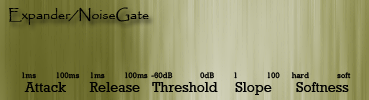
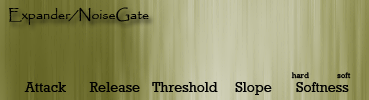
Updated UI

diff --git a/ATKExpander/ATKExpander.cpp b/ATKExpander/ATKExpander.cpp
@@ -63,7 +63,7 @@ ATKExpander::ATKExpander(IPlugInstanceInfo instanceInfo)
   pGraphics->AttachControl(new IKnobMultiControlText(this, IRECT(kAttackX, kAttackY, kAttackX + 43, kAttackY + 43 + 21), kAttack, &knob, &text, "ms"));
   pGraphics->AttachControl(new IKnobMultiControlText(this, IRECT(kReleaseX, kReleaseY, kReleaseX + 43, kReleaseY + 43 + 21), kRelease, &knob, &text, "ms"));
   pGraphics->AttachControl(new IKnobMultiControlText(this, IRECT(kThresholdX, kThresholdY, kThresholdX + 43, kThresholdY + 43 + 21), kThreshold, &knob, &text, "dB"));
-  pGraphics->AttachControl(new IKnobMultiControl(this, kSlopeX, kSlopeY, kSlope, &knob));
+  pGraphics->AttachControl(new IKnobMultiControlText(this, IRECT(kSlopeX, kSlopeY, kSlopeX + 43, kSlopeY + 43 + 21), kSlope, &knob, &text, ""));
   pGraphics->AttachControl(new IKnobMultiControl(this, kSoftnessX, kSoftnessY, kSoftness, &knob));
 
   AttachGraphics(pGraphics);
